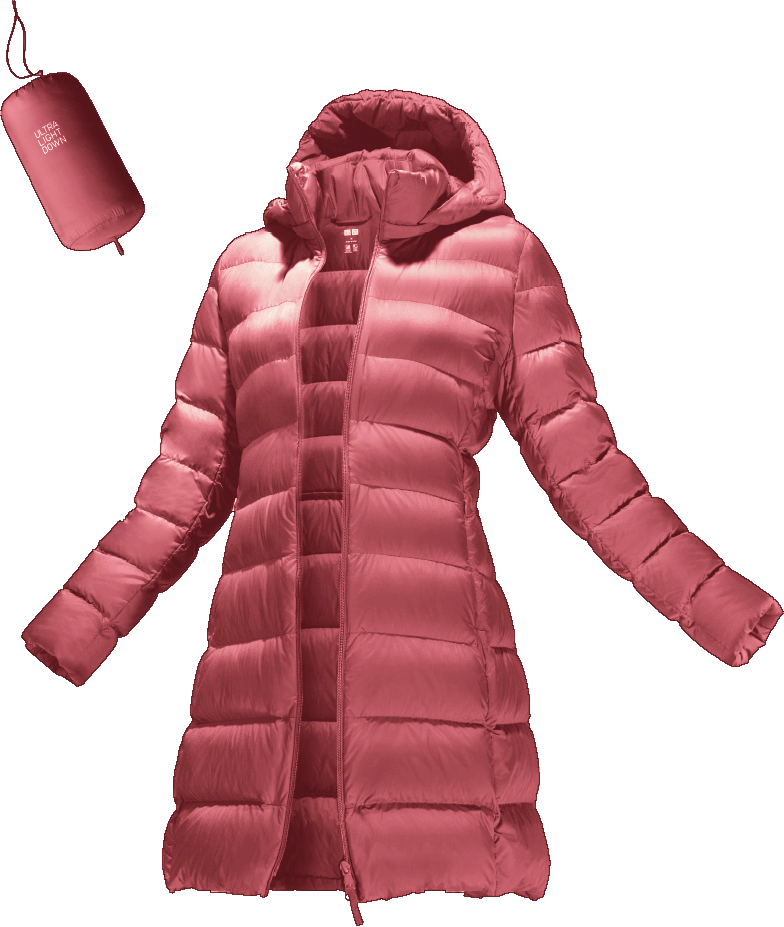
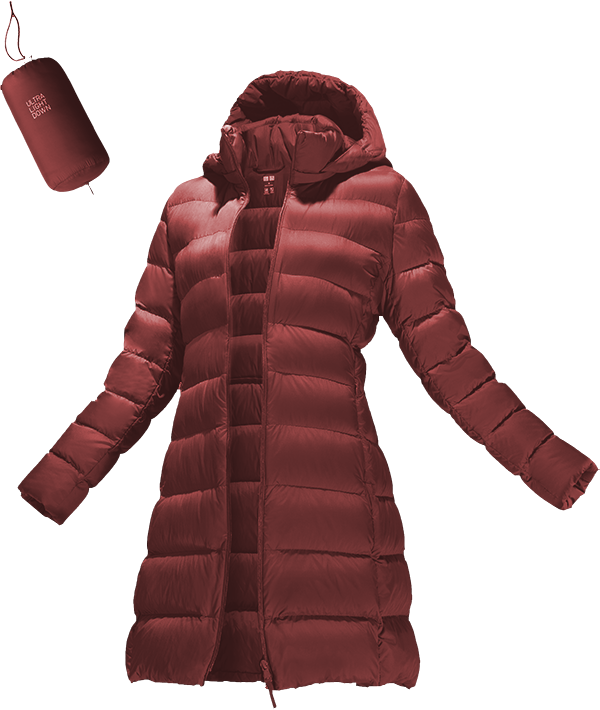
experimenting with colors presentation
Former-commit-id: a799bb3a04c96df1296a4816f0440db78a655dbf
Former-commit-id: 06fb32380a45050f73e6b2bd272dd60e6b60db5f

diff --git a/app/index.html b/app/index.html
@@ -114,35 +114,44 @@
 				<article class="oneInfo sectionHeader">
 					<h2>Three Varieties</h2>
 					<p>PlumaFill synthetic insulation and a patent-pending construction technique create an ultralight</p>
-					<div class="allAnchors">
-						<a href="#seamless">
-							<div class="oneAnchor">
-								<img src="//uniqlo.scene7.com/is/image/UNIQLO/goods_56_409113?$prod$" />
-								<h3>Ultra Light Down Seamless <i class="icon ion-md-arrow-dropdown"></i></h3>
-								<p>The seamless design provides extra warmth and wind protection.</p>
+					<div class="toParallax">
+						<div class="allAnchors">
+							<a href="#classic">
+								<div class="oneAnchor">
+									<img class="flipped" src="//uniqlo.scene7.com/is/image/UNIQLO/goods_69_409327?$prod$" />
+									<h3>Ultra Light Down <i class="icon ion-md-arrow-dropdown"></i></h3>
+									<p>Amazing lightness and warmth in a water-repellent, packable coat.</p>
+								</div>
+							</a>
+							<a href="#compact">
+								<div class="oneAnchor">
+									<img src="//uniqlo.scene7.com/is/image/UNIQLO/goods_07_409117?$prod$" />
+									<h3>Ultra Light Down Compact <i class="icon ion-md-arrow-dropdown"></i></h3>
+									<p>A two-way design means you can layer this coat under any outerwear.</p>
+								</div>
+							</a>
+							<a href="#seamless">
+								<div class="oneAnchor">
+									<img class="flipped" src="//uniqlo.scene7.com/is/image/UNIQLO/goods_56_409113?$prod$" />
+									<h3>Ultra Light Down Seamless <i class="icon ion-md-arrow-dropdown"></i></h3>
+									<p>The seamless design provides extra warmth and wind protection.</p>
+								</div>
+							</a>
+						</div>
+						<div class="uldLineup">
+							<div class="oneLineup">
+								<h3>Women's Lineup</h3>
+								<img src="images/uldLineupWomen.gif" />
 							</div>
-						</a>
-						<a href="#classic">
-							<div class="oneAnchor">
-								<img src="//uniqlo.scene7.com/is/image/UNIQLO/goods_69_409327?$prod$" />
-								<h3>Ultra Light Down <i class="icon ion-md-arrow-dropdown"></i></h3>
-								<p>Amazing lightness and warmth in a water-repellent, packable coat.</p>
+							<div class="oneLineup">
+								<h3>Men's Lineup</h3>
+								<img src="images/uldLineupMen.gif" />
 							</div>
-						</a>
-						<a href="#compact">
-							<div class="oneAnchor">
-								<img src="//uniqlo.scene7.com/is/image/UNIQLO/goods_07_409117?$prod$" />
-								<h3>Ultra Light Down Compact <i class="icon ion-md-arrow-dropdown"></i></h3>
-								<p>A two-way design means you can layer this coat under any outerwear.</p>
-							</div>
-						</a>
+
+						</div>
 					</div>
 				</article>
 			</div>
-			<!-- <div class="uldLineup">
-				<img src="images/uldLineupMen.gif" />
-				<img src="images/uldLineupWomen.gif" />
-			</div> -->
 		</section>
 
 
@@ -195,8 +204,9 @@
 					<p>PlumaFill synthetic insulation and a patent-pending construction technique create an ultralight jacket with the
 						best
 						warmth for weight we’ve ever achieved—down or synthetic.</p>
-					<img class="thumb" src="http://uniqlo.scene7.com/is/image/UNIQLO/detailDown?$png$" />
-					<img class="thumb" src="http://uniqlo.scene7.com/is/image/UNIQLO/detailDownExposed?$jpgMQ$" />
+					<!-- <img class="thumb" src="http://uniqlo.scene7.com/is/image/UNIQLO/detailDown?$png$" /> -->
+					<img class="thumb" src="images/detailDown.jpg" />
+					<img class="thumb" src="images/detailDownExposed.jpg" />
 					<div class="theCtas">
 						<a href="#" class="zeroCTA"><span>shop uld</span></a>
 					</div>
@@ -227,14 +237,39 @@
 					<p>PlumaFill synthetic insulation and a patent-pending construction technique create an ultralight jacket with the
 						best
 						warmth for weight we’ve ever achieved—down or synthetic.</p>
-					<img src="http://uniqlo.scene7.com/is/image/UNIQLO/detailWaterproof01?$jpgMQ$" />
-					<img src="http://uniqlo.scene7.com/is/image/UNIQLO/detailWaterproof02?$png$" />
+					<img src="images/detailWaterproof01.jpg" />
+					<img src="http://uniqlo.scene7.com/is/image/UNIQLO/detailWaterproof02?$jpgMQ$" />
 					<div class="theCtas">
 						<a href="#" class="zeroCTA"><span>shop uld</span></a>
 					</div>
 				</article>
 			</div>
+		</section>
 
+
+
+
+
+
+
+
+
+
+
+
+		<!-- ————————————————————————————————————o————————————————————————————————————o COLOR VARIATIONS -->
+		<!-- COLOR VARIATIONS -->
+		<!-- ————————————————————————————————————o————————————————————————————————————o COLOR VARIATIONS -->
+		<section class="panel colors" data-color="monBlue04">
+			<div class="info">
+				<article class="sectionHeader">
+					<h2>A Plethora of Colors</h2>
+					<p>PlumaFill synthetic insulation and a patent-pending construction technique create an ultralight</p>
+					<!-- <img class="mainImage" src="images/colorVariations.png" /> -->
+					<img class="mainImage" src="images/colorsOneRow.png" />
+					<img class="mainImage" src="images/colorsOneRow.png" />
+				</article>
+			</div>
 		</section>
 
 
@@ -608,6 +643,7 @@
 		setTimeout(function () {
 			whatIs.start()
 			anchors.start()
+			colors.start()
 			repellent.start()
 			// fieldTesting.start()
 			heatRetention.start()

diff --git a/app/styles/main.scss b/app/styles/main.scss
@@ -213,8 +213,8 @@ body {
                     display: grid;
                     grid-template-columns: 1fr 1fr 1fr;
 					grid-column-gap: 30px;
-					transform: translateY(var(--anchors));
-					will-change: transform;
+					// transform: translateY(var(--anchors));
+					// will-change: transform;
                 }
                 .oneAnchor {
                     float: left;
@@ -223,12 +223,41 @@ body {
                         width: 100%; // height: auto;
                         margin: 30px 0 15px 0;
                     }
+                    img.flipped {
+                        transform: scaleX(-1);
+                    }
+                }
+                .toParallax {
+                    transform: translateY(var(--anchors));
+					will-change: transform;
+                }
+                .uldLineup img {
+                    width: 100%;
+                    margin: 0;
                 }
             }
             .uldLineup {
                 display: grid;
                 grid-template-columns: 1fr 1fr;
                 grid-column-gap: 30px;
+                margin-top: 100px;
+                .oneLineup {
+                    text-align: center;
+                    h3 {
+                        padding-bottom: 10px;
+                        font-size: 28px;
+                    }
+                }
+            }
+        }
+        &.colors {
+            grid-template-columns: 1fr;
+            .mainImage {
+                display: block;
+                width: 80%;
+                margin: 30px auto 0px 0;
+                transform: translateY(var(--colors));
+                will-change: transform;
             }
         }
         &.repellent {
@@ -303,6 +332,9 @@ body {
             img.thumb {
                 width: 50%;
                 margin-top: 20px;
+            }
+            p {
+                width: 105%;
             }
         }
 
@@ -677,7 +709,7 @@ body {
     height: 40px;
     width: auto;
     min-width: 150px;
-    padding-top: 4px;
+    padding-top: 0;
     margin: 0 15px 0 auto;
     font-family: $font-UQReg;
     font-size: 1.1vw;

diff --git a/app/scripts/main.js b/app/scripts/main.js
@@ -110,9 +110,27 @@ const whatIs = basicScroll.create({
 const anchors = basicScroll.create({
   elem: document.querySelector('.anchors'),
   from: 'top-bottom',
-  to: 'middle-middle',
+  to: 'top-top',
   props: {
     '--anchors': {
+      from: '300px',
+      to: '-20px'
+    }
+  }
+})
+
+
+
+
+
+
+
+const colors = basicScroll.create({
+  elem: document.querySelector('.colors'),
+  from: 'top-bottom',
+  to: 'middle-middle',
+  props: {
+    '--colors': {
       from: '300px',
       to: '0px'
     }
@@ -182,8 +200,8 @@ const collecSeamless = basicScroll.create({
   to: 'bottom-top',
   props: {
     '--seamless': {
-      from: '400px',
-      to: '-300px'
+      from: '300px',
+      to: '-400px'
     }
   }
 })
